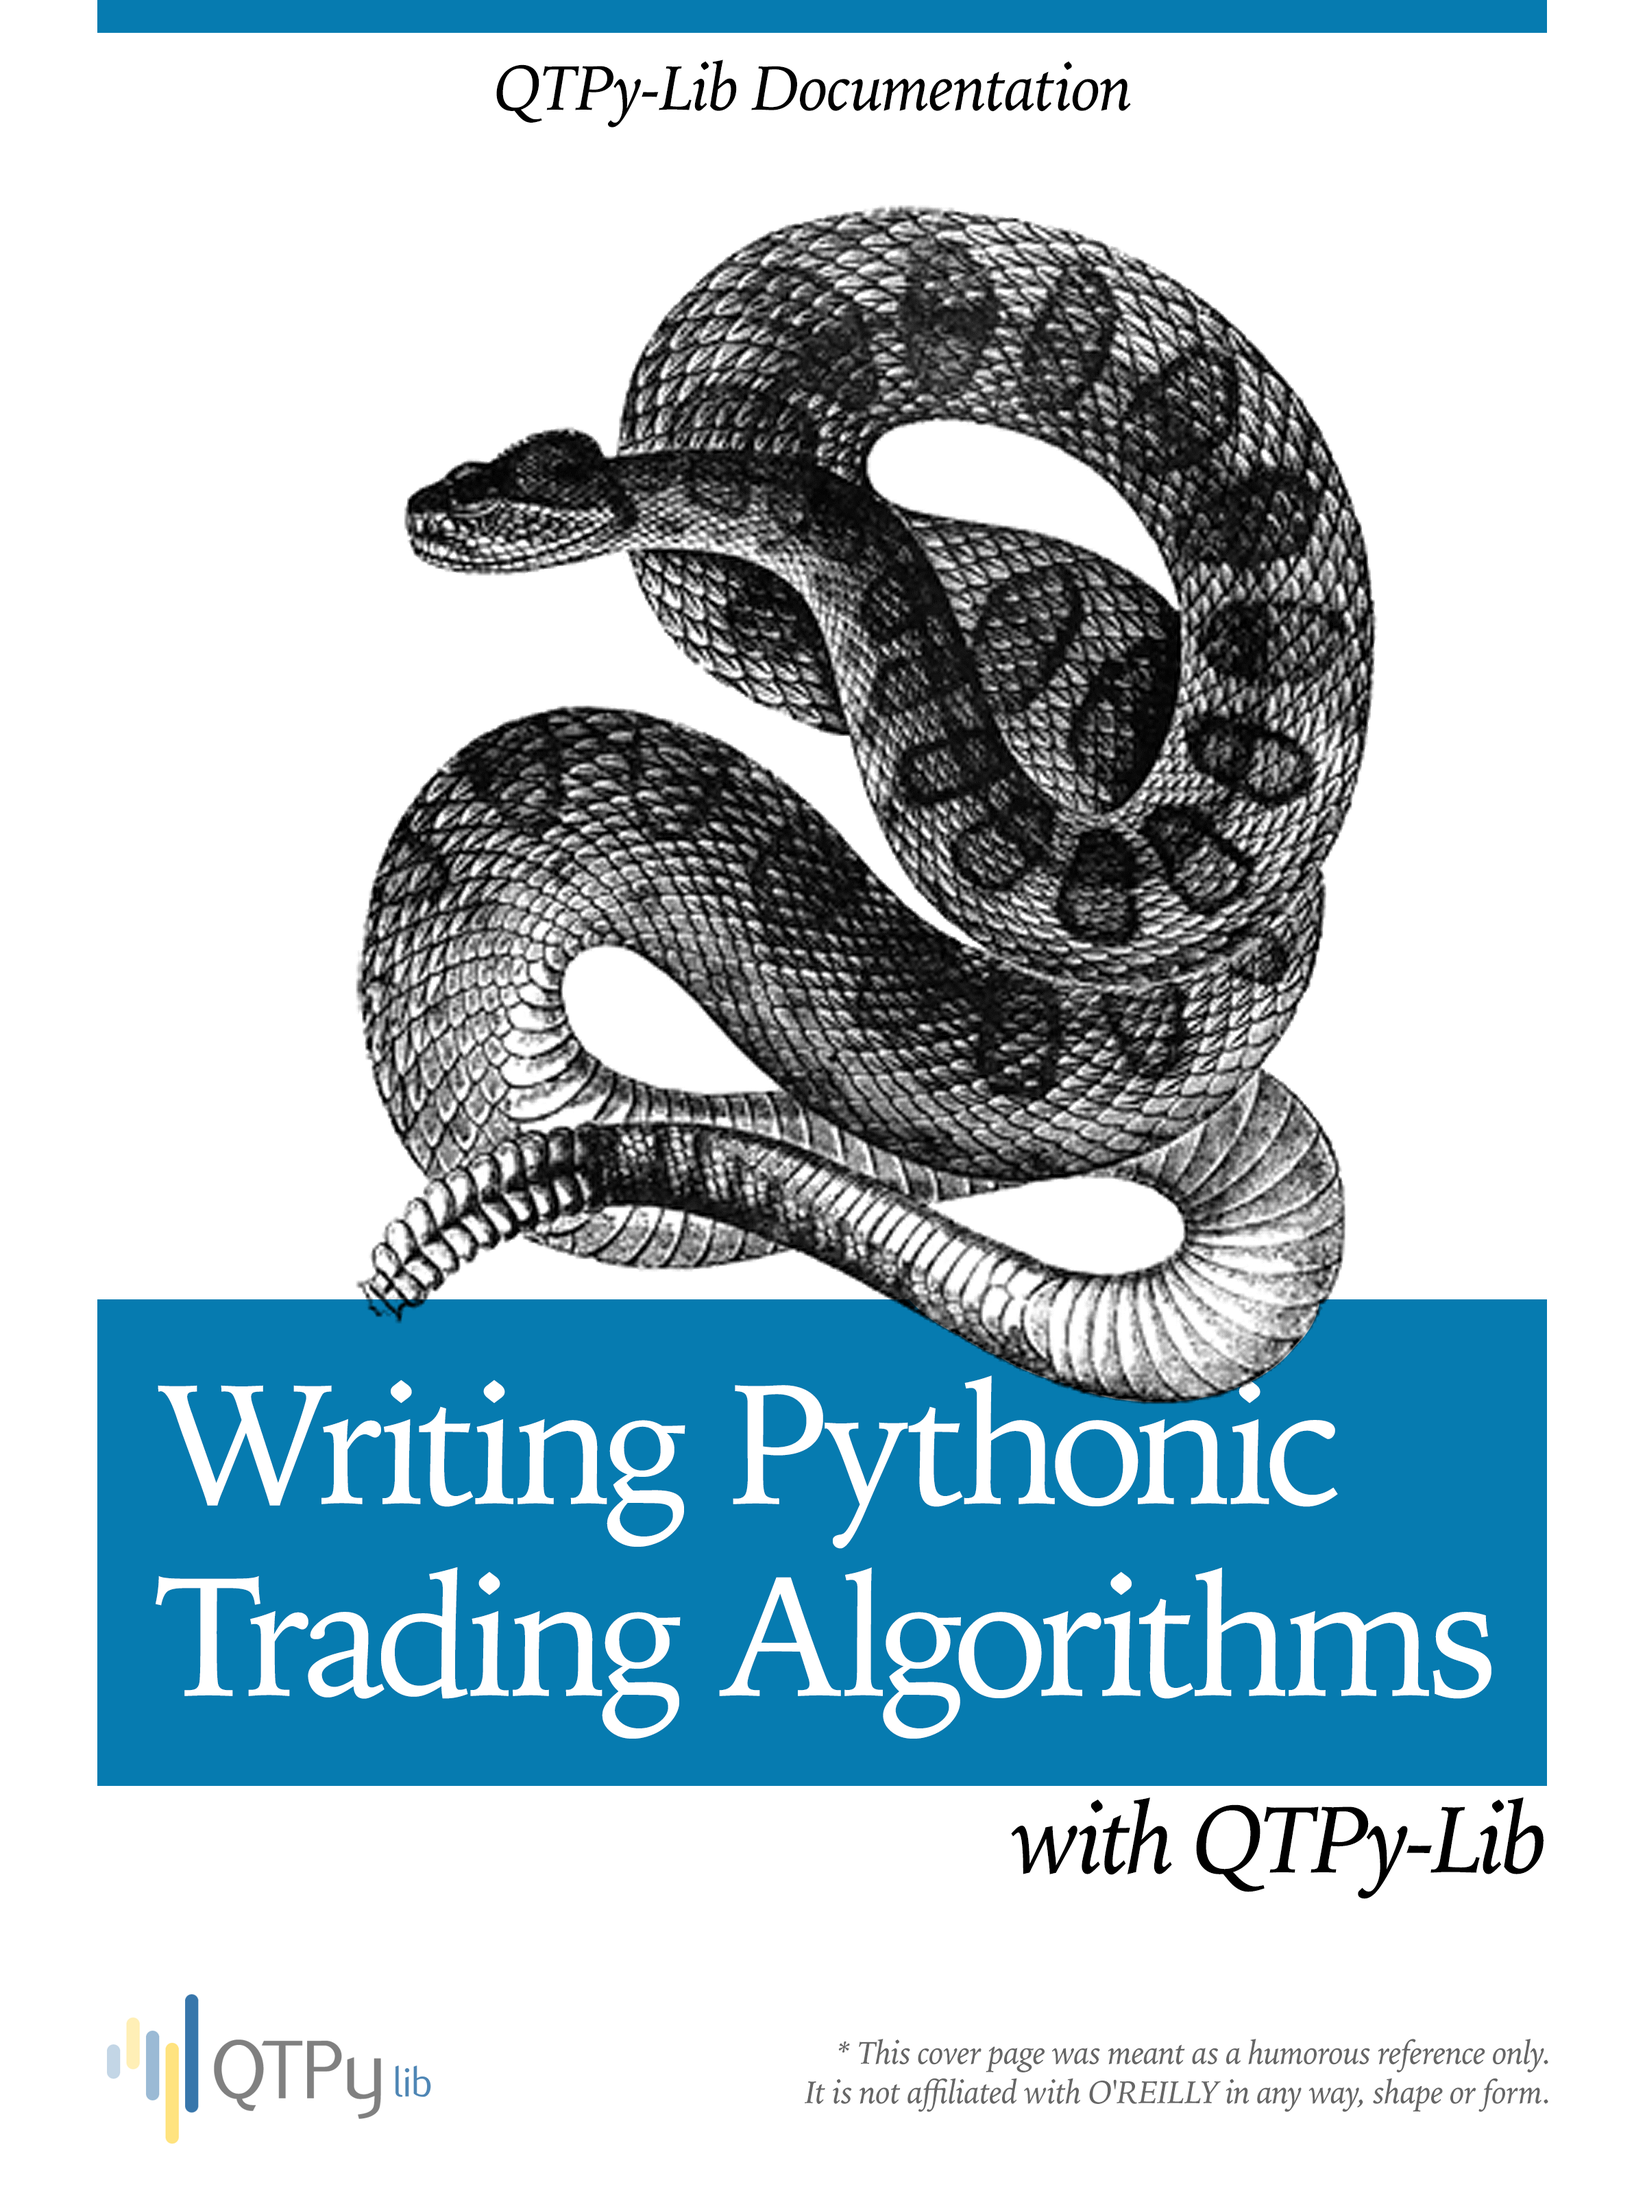
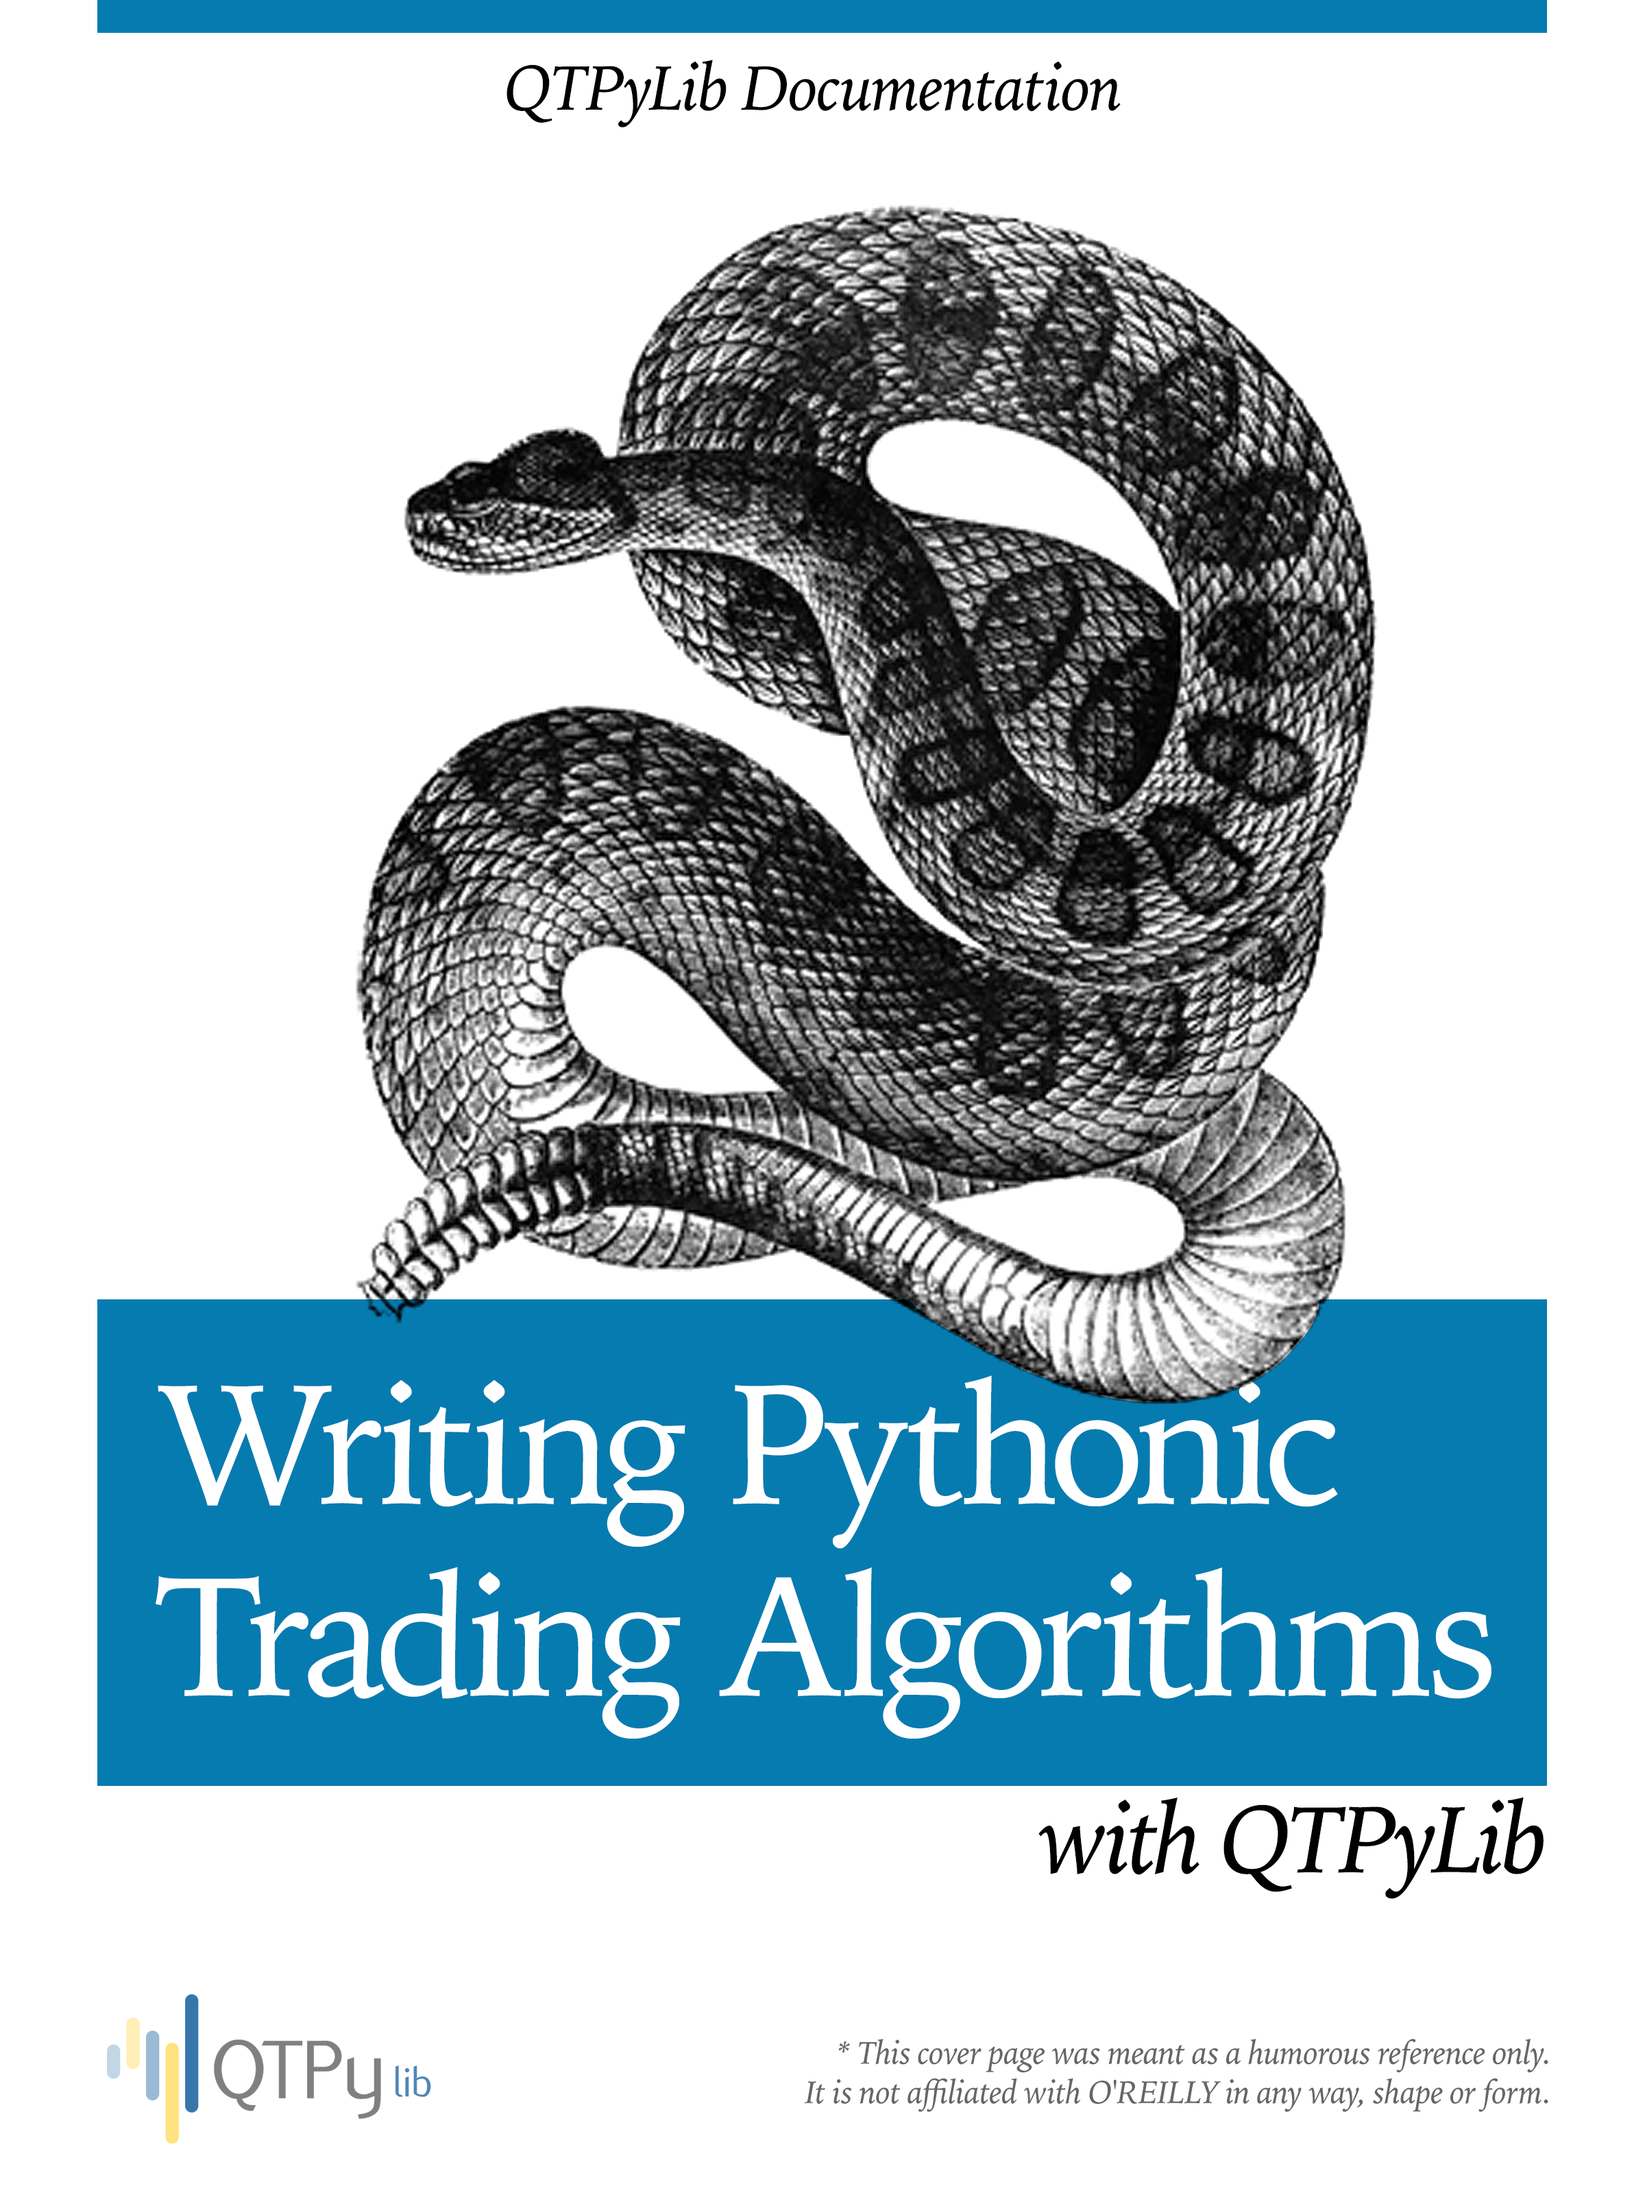
Official name changed to QTPyLib

Changed region(s): [[0.625, 0.8125, 0.875, 0.875], [0.2812, 0.0312, 0.6875, 0.0625]]

diff --git a/docs/source/conf.py b/docs/source/conf.py
@@ -1,7 +1,7 @@
 #!/usr/bin/env python3
 # -*- coding: utf-8 -*-
 #
-# QTPy-Lib documentation build configuration file, created by
+# QTPyLib documentation build configuration file, created by
 # sphinx-quickstart on Sun Aug 14 17:26:46 2016.
 #
 # This file is execfile()d with the current directory set to its
@@ -48,7 +48,7 @@ source_suffix = '.rst'
 master_doc = 'index'
 
 # General information about the project.
-project = 'QTPy-Lib'
+project = 'QTPyLib'
 copyright = '2016, Ran Aroussi'
 author = 'Ran Aroussi'
 
@@ -124,7 +124,7 @@ todo_include_todos = False
 
 # The name for this set of Sphinx documents.
 # "<project> v<release> documentation" by default.
-#html_title = 'QTPy-Lib v1.0.0'
+#html_title = 'QTPyLib v1.0.0'
 
 # A shorter title for the navigation bar.  Default is the same as html_title.
 #html_short_title = None
@@ -228,7 +228,7 @@ latex_elements = {
 # (source start file, target name, title,
 #  author, documentclass [howto, manual, or own class]).
 latex_documents = [
-    (master_doc, 'QTPy.tex', 'QTPy-Lib Documentation',
+    (master_doc, 'QTPy.tex', 'QTPyLib Documentation',
      'Ran Aroussi', 'manual'),
 ]
 
@@ -272,8 +272,8 @@ man_pages = [
 # (source start file, target name, title, author,
 #  dir menu entry, description, category)
 texinfo_documents = [
-    (master_doc, 'QTPy', 'QTPy-Lib Documentation',
-     author, 'QTPy-Lib', 'Pythonic Algorithmic Trading Library',
+    (master_doc, 'QTPy', 'QTPyLib Documentation',
+     author, 'QTPyLib', 'Pythonic Algorithmic Trading Library',
      'Miscellaneous'),
 ]
 

diff --git a/README.rst b/README.rst
@@ -1,14 +1,14 @@
-QTPy-Lib, Pythonic Algorithmic Trading
+QTPyLib, Pythonic Algorithmic Trading
 ======================================
 
-QTPy-Lib (**Q**\ uantitative **T**\ rading **Py**\ thon **Lib**\ rary)
+QTPyLib (**Q**\ uantitative **T**\ rading **Py**\ thon **Lib**\ rary)
 is a simple, event-driven algorithmic trading system written in Python 3,
 that supports backtesting and live trading using
 `Interactive Brokers <https://www.interactivebrokers.com>`__
 for market data and order execution.
 
-I originally developed QTPy-Lib (QTPy for short) because I wanted for
-a simple (but powerful) trading library that will let me to focus on the
+I originally developed QTPyLib because I wanted for a simple
+(but powerful) trading library that will let me to focus on the
 trading logic itself and ignore everything else.
 
 `Documentation <http://www.qtpylib.io/>`__
@@ -30,7 +30,7 @@ Features
 Quickstart
 ==========
 
-There are 5 main components to QTPy-Lib:
+There are 5 main components to QTPyLib:
 
 1. ``Blotter`` - handles market data retreival and processing.
 2. ``Broker`` - sends and proccess orders/positions (abstracted layer).
@@ -185,7 +185,7 @@ First, install IbPy (for some reason I can't get this installed automatically):
 
     $ pip install git+https://github.com/blampe/IbPy/archive/master.zip --user
 
-Then, install QTPy-Lib using ``pip``:
+Then, install QTPyLib using ``pip``:
 
 .. code:: bash
 
@@ -216,8 +216,8 @@ Requirements
 Legal Stuff
 ===========
 
-QTPy-Lib is distributed under the **GNU Lesser General Public License v3.0**. See the `LICENSE.txt <./LICENSE.txt>`__ file in the release for details.
-QTPy-Lib is not a product of Interactive Brokers, nor is it affiliated with Interactive Brokers.
+QTPyLib is distributed under the **GNU Lesser General Public License v3.0**. See the `LICENSE.txt <./LICENSE.txt>`__ file in the release for details.
+QTPyLib is not a product of Interactive Brokers, nor is it affiliated with Interactive Brokers.
 
 
 You can find other examples in the qtpylib/examples directory.
@@ -225,6 +225,6 @@ You can find other examples in the qtpylib/examples directory.
 P.S.
 ----
 
-I'm very interested in your experience with QTPy-Lib. Please drop me an note with any feedback you have.
+I'm very interested in your experience with QTPyLib. Please drop me an note with any feedback you have.
 
 **Ran Aroussi**

diff --git a/docs/source/install.rst b/docs/source/install.rst
@@ -1,7 +1,7 @@
 Installation
 ============
 
-Install QTPy-Lib using ``pip``
+Install QTPyLib using ``pip``
 ------------------------------
 
 .. code:: bash
@@ -10,7 +10,7 @@ Install QTPy-Lib using ``pip``
 
 
 .. note::
-    QTPy-Lib requires `IbPy <https://github.com/blampe/IbPy>`_, which, for some reason,
+    QTPyLib requires `IbPy <https://github.com/blampe/IbPy>`_, which, for some reason,
     cannot be bundled with the pip installer and requires manual installation.
     **To install IbPy manually, run:**
 
@@ -18,10 +18,10 @@ Install QTPy-Lib using ``pip``
 
         $ pip install git+https://github.com/blampe/IbPy/archive/master.zip --user
 
-Uninstall QTPy-Lib
+Uninstall QTPyLib
 ~~~~~~~~~~~~~~~~~~
 
-To uninstall QTPy-Lib using ``pip``, simply use:
+To uninstall QTPyLib using ``pip``, simply use:
 
 .. code:: bash
 
@@ -52,7 +52,7 @@ Requirements
 Install IB TWS / Gateway
 ------------------------
 
-In order for QTPy-Lib to be able to subscribe to market data and submit orders,
+In order for QTPyLib to be able to subscribe to market data and submit orders,
 you must have the latest version of Interactive Brokers’
 `TWS <https://www.interactivebrokers.com/en/index.php?f=15875>`_ or
 `IB Gateway <https://www.interactivebrokers.com/en/index.php?f=16457>`_

diff --git a/docs/source/blotter.rst b/docs/source/blotter.rst
@@ -2,19 +2,19 @@ Getting Market Data
 ===================
 
 Market Data retrieval is done by a piece of software called a
-**Blotter**. A Blotter connects to the broker (in QTPy-Lib's case,
+**Blotter**. A Blotter connects to the broker (in QTPyLib's case,
 Interactive Brokers via TWS/IB), handles incoming market data
 and passes it to the algo for processing.
 
 Blotters optionally (but usually) also take care of storing the market
 data in a Database for later analysis, back-testing new strategies, etc.
 
-In QTPy-Lib's case, the Blotter handle all of the above, while your
+In QTPyLib's case, the Blotter handle all of the above, while your
 algorithms subscribe to the Blotter's updates via pub/sub
 mechanism using ZeroMQ - a blazing fast Message Queue.
 
 .. note::
-    QTPy-Lib was designed with a **"One Blotter To Rule Them All"**
+    QTPyLib was designed with a **"One Blotter To Rule Them All"**
     design in mind. All your algorithms can listen to a single
     Blotter running in the background without a problem and without
     consuming any unnessecery system resources.

diff --git a/docs/source/reports.rst b/docs/source/reports.rst
@@ -1,13 +1,13 @@
 Reporting Web App / API
 =======================
 
-QTPy-Lib comes with a basic reporting web app where you can monitor
+QTPyLib comes with a basic reporting web app where you can monitor
 your trade history and open positions. While the web app is running,
 it also exposes a simple REST API for fetching trades, market data,
 etc to create your own application.
 
 .. note::
-    Since QTPy-Lib relies on Interactive Brokers for pretty much
+    Since QTPyLib relies on Interactive Brokers for pretty much
     everything, it's recommended that you create a second user
     for your IB account and use it to login to TWS on your
     computer or Phone. There you can see the trades made by
@@ -53,7 +53,7 @@ Point your browser to ``http://localhost:5000``, enter the password, and you sho
 
 .. image:: _static/dashboard.png
     :align: center
-    :alt: QTPy-Lib Dashboard
+    :alt: QTPyLib Dashboard
 
 
 Initilizing via CLI

diff --git a/docs/source/sms.rst b/docs/source/sms.rst
@@ -1,7 +1,7 @@
 SMS Notification
 ================
 
-QTPy-Lib supports both automatic trade notifications via SMS
+QTPyLib supports both automatic trade notifications via SMS
 and  custom messages (for example, when you want to SMS yourself
 signals without entering a trade).
 
@@ -98,4 +98,4 @@ SMS Using Twilio
     token = AUTH_TOKEN
     from  = FROM_NUMBER
 
-.. note:: If your ``sms.ini`` file contains both services, QTPy-Lib will use the first one listed.
+.. note:: If your ``sms.ini`` file contains both services, QTPyLib will use the first one listed.

diff --git a/docs/source/structure.rst b/docs/source/structure.rst
@@ -1,7 +1,7 @@
 Library Structure
 =================
 
-There are 5 main components to QTPy-Lib:
+There are 5 main components to QTPyLib:
 
 1. ``Blotter`` - handles market data retreival and processing.
 2. ``Broker`` - sends and proccess orders/positions (abstracted layer).
@@ -17,4 +17,4 @@ Flow Chart
 .. image:: _static/diagram.png
     :width: 640px
     :align: center
-    :alt: QTPy-Lib Diagram
+    :alt: QTPyLib Diagram

diff --git a/docs/source/algo.rst b/docs/source/algo.rst
@@ -244,10 +244,10 @@ Runtime (CLI) Parameters
 
 ----
 
-Back-Testing Using QTPy-Lib
+Back-Testing Using QTPyLib
 ---------------------------
 
-In addition to live/paper trading, QTPy-Lib can also be used for back-testing
+In addition to live/paper trading, QTPyLib can also be used for back-testing
 **without changing event one line of code**, simply by adding the
 following arguments when running your algo.
 

diff --git a/docs/source/legal.rst b/docs/source/legal.rst
@@ -1,9 +1,9 @@
 Legal Notice
 ================
 
-QTPy-Lib is not a product of Interactive Brokers, nor is it affiliated with Interactive Brokers.
+QTPyLib is not a product of Interactive Brokers, nor is it affiliated with Interactive Brokers.
 
-QTPy-Lib is distributed under the **GNU Lesser General Public License v3.0**.
+QTPyLib is distributed under the **GNU Lesser General Public License v3.0**.
 
 -----
 

diff --git a/docs/source/indicators.rst b/docs/source/indicators.rst
@@ -3,7 +3,7 @@ Technical Indicators
 
 Although you can import technical indicator libraries such as the
 excellent `TA-Lib <http://ta-lib.org>`_ and use them in your strategies,
-QTPy-Lib does comes bundled with some common indicators that work as Pandas Objects.
+QTPyLib does comes bundled with some common indicators that work as Pandas Objects.
 
 ATR
 ---

diff --git a/docs/source/index.rst b/docs/source/index.rst
@@ -6,7 +6,7 @@
 .. image:: _static/qtpy-logo.png
     :target: https://github.com/ranaroussi/qtpylib
     :width: 250px
-    :alt: QTPy-Lib
+    :alt: QTPyLib
 
 
 .. include:: ../../README.rst
